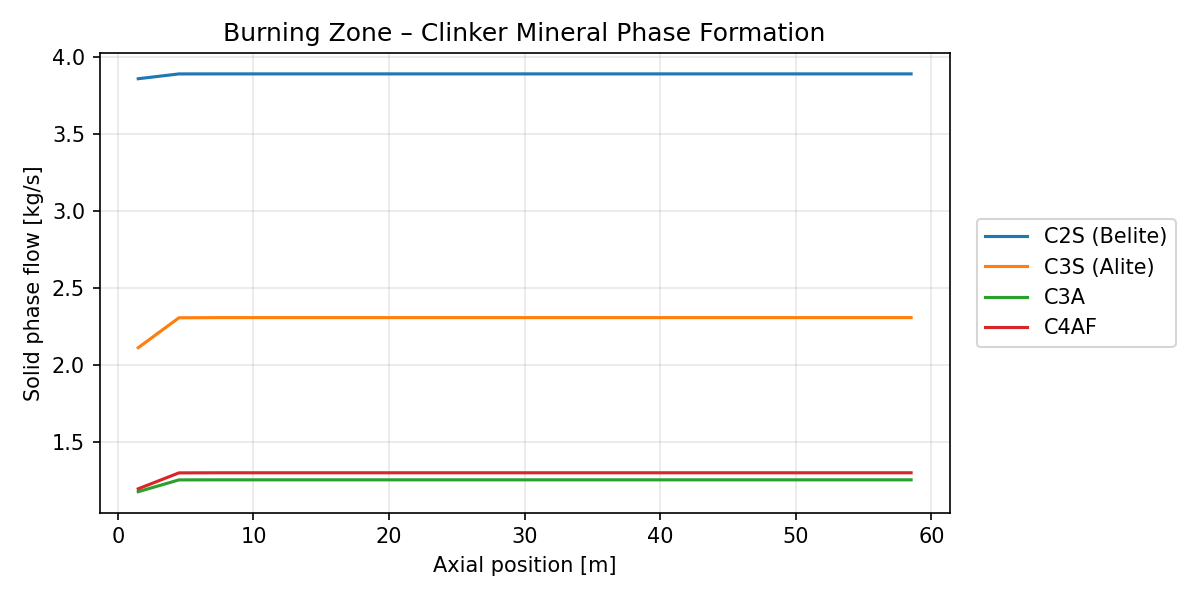
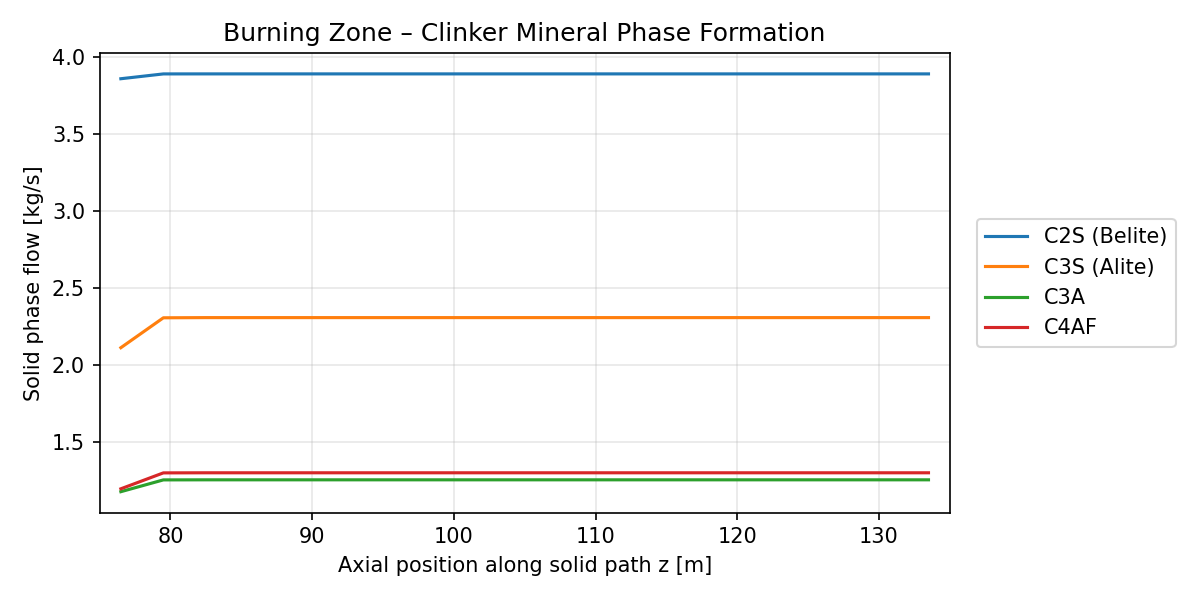
pyroprocess visualization

diff --git a/visualization/zone_profiles.py b/visualization/zone_profiles.py
@@ -119,7 +119,6 @@ def plot_global_temperature_profile(twin, output_dir=None):
                 x,
                 getattr(state, f"{prefix}_{key}"),
                 color=color,
-                marker="." if segment.N < 10 else None,
                 label=series_label if i == 0 else None,
             )
 

diff --git a/CLAUDE.md b/CLAUDE.md
@@ -1,12 +1,10 @@
 # CLAUDE.md
 
 1. This is a physics-based cement pyroprocess Digital Twin; preserve physical consistency over heuristic behavior.
-2. Follow the existing architecture and code structure; do not rewrite or reorganize modules without explicit approval.
+2. Follow the existing architecture and code structure; do not rewrite or reorganize modules without a clear technical reason.
 3. Work incrementally: one focused task at a time, keeping changes small and reviewable.
-4. Never delete, rename, or bypass existing variables, equations, states, or interfaces without explicit approval.
+4. Preserve existing variables, equations, states, and interfaces unless a change is technically necessary.
 5. Use SI units exclusively.
 6. Maintain causal physics: mass/energy transport → reactions → enthalpy/heat transfer → temperature/state updates.
 7. Prefer physical models and conservation laws over arbitrary clamps, heuristics, or empirical fixes.
 8. Validate mass and energy conservation, handoffs, units, bounds, and numerical stability after changes.
-9. The pyroprocess is modular: Preheater, Precalciner, Transition, Burning, and Cooler are separate physical units.
-10. Before making architectural or physics-level changes, explain the proposed change and wait for approval.
